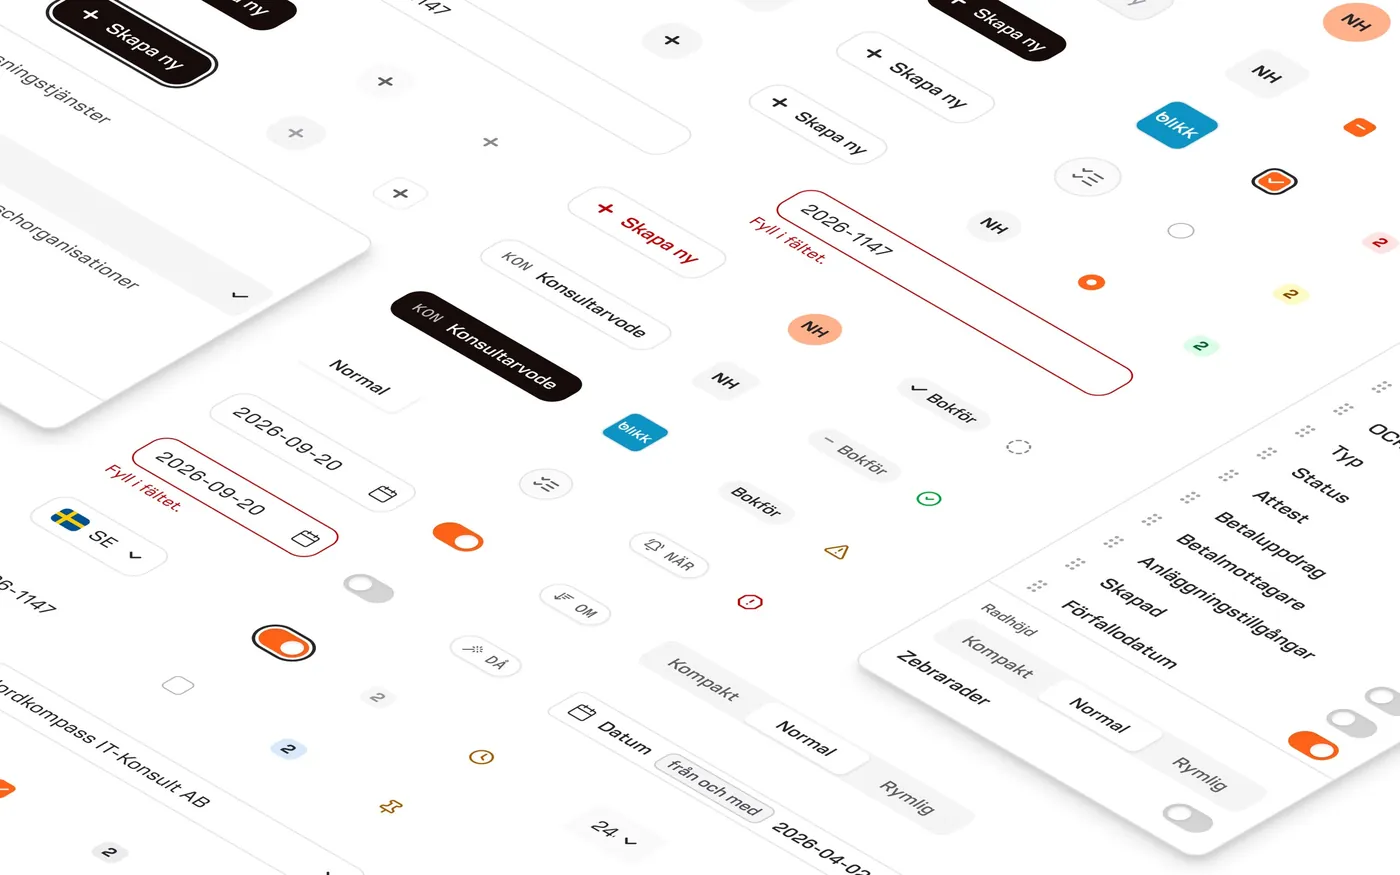
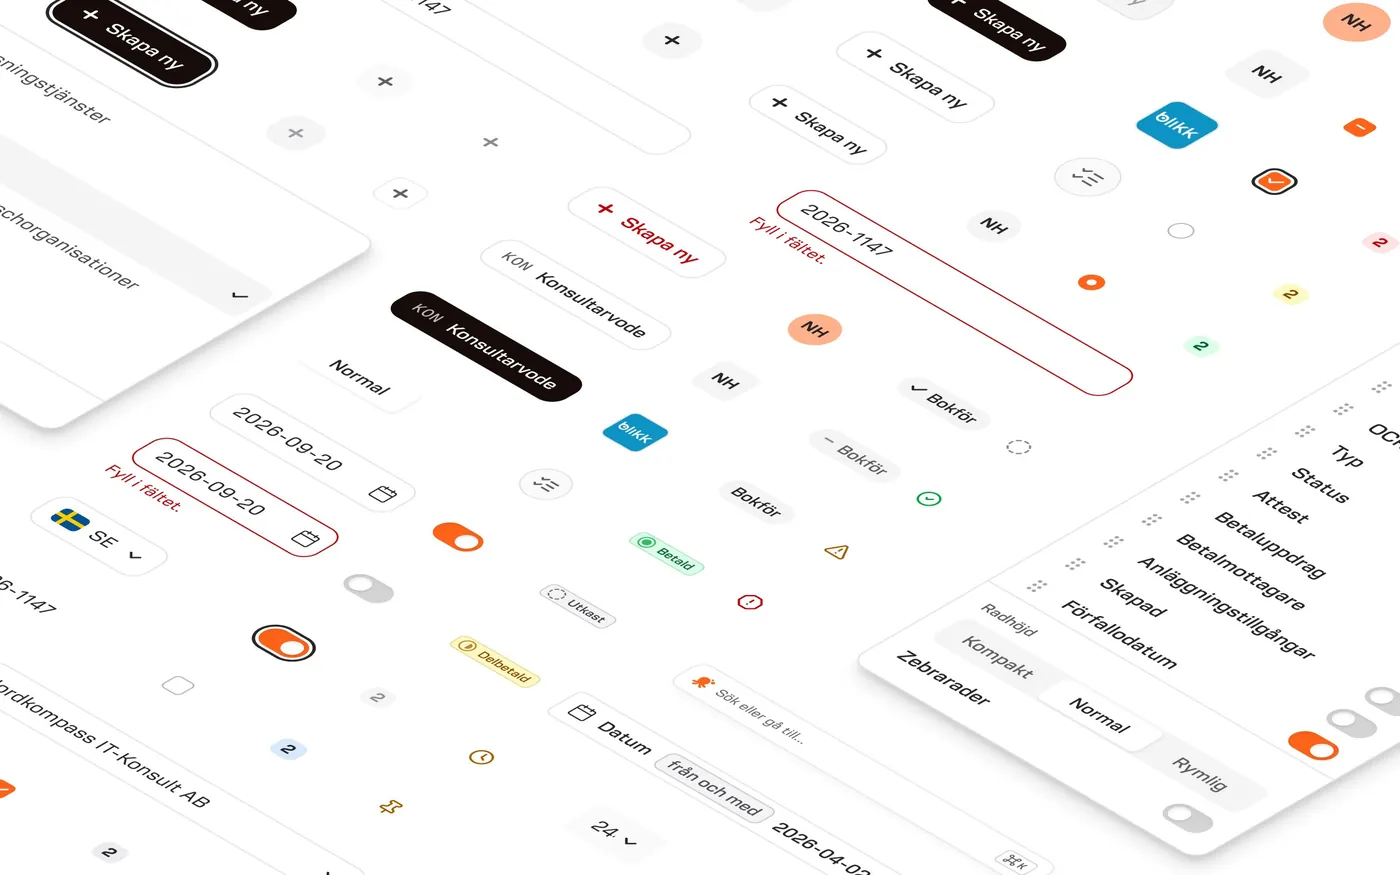
Oqto components image: status tags and the search field replace the when/if/then chips and the segmented control
Claude-Session: https://claude.ai/code/session_01T8AAM769pNUjzneeyTgJVR

diff --git a/docs/oqto/index.html b/docs/oqto/index.html
@@ -101,7 +101,7 @@
 <p class="c-step-text">Buttons, fields, chips, menus and tables, each with its states. The Figma library and its written guidelines are connected to Claude Code, so new features follow the system from the start. Everything works in light and dark mode.</p>
 </div>
 </div>
-<div data-px="-1" data-rv="3" data-lb="1" tabindex="0" role="button" aria-label="Enlarge image" class="rv c-clip"><img class="zm px" src="../assets/oqto-components-1400.webp?v=63c868e3" srcset="../assets/oqto-components-800.webp?v=a930d223 800w, ../assets/oqto-components-1400.webp?v=63c868e3 1400w, ../assets/oqto-components.webp?v=1073ee6a 2400w" sizes="(min-width: 1440px) 1200px, 92vw" data-lbsrc="../assets/oqto-components.webp?v=1073ee6a" loading="lazy" decoding="async" alt="A selection of Oqto components laid out on an isometric plane" width="2400" height="1500"></div>
+<div data-px="-1" data-rv="3" data-lb="1" tabindex="0" role="button" aria-label="Enlarge image" class="rv c-clip"><img class="zm px" src="../assets/oqto-components-1400.webp?v=0739f04d" srcset="../assets/oqto-components-800.webp?v=25db8915 800w, ../assets/oqto-components-1400.webp?v=0739f04d 1400w, ../assets/oqto-components.webp?v=eaa7601d 2400w" sizes="(min-width: 1440px) 1200px, 92vw" data-lbsrc="../assets/oqto-components.webp?v=eaa7601d" loading="lazy" decoding="async" alt="A selection of Oqto components laid out on an isometric plane" width="2400" height="1500"></div>
 <div data-rv="4" data-lb="1" tabindex="0" role="button" aria-label="Enlarge image" class="rv c-clip"><div class="zm ld"><img src="../assets/oqto-dark-g-1400.jpg?v=3f939e47" srcset="../assets/oqto-dark-g-800.jpg?v=39d6bf9e 800w, ../assets/oqto-dark-g-1400.jpg?v=3f939e47 1400w, ../assets/oqto-dark-g.jpg?v=1dbd0e84 2400w" sizes="(min-width: 1440px) 1200px, 92vw" data-lbsrc="../assets/oqto-dark-g.jpg?v=1dbd0e84" loading="lazy" decoding="async" alt="The automations start view and the supplier invoice list in dark mode" width="2400" height="1500"><img class="li" src="../assets/oqto-light-1400.webp?v=5ecb5cf8" srcset="../assets/oqto-light-800.webp?v=518fa672 800w, ../assets/oqto-light-1400.webp?v=5ecb5cf8 1400w, ../assets/oqto-light.webp?v=f5364087 2400w" sizes="(min-width: 1440px) 1200px, 92vw" data-lbsrc="../assets/oqto-light.webp?v=f5364087" loading="lazy" decoding="async" alt="The automations start view and the supplier invoice list in light mode" width="2400" height="1500"></div></div>
 </section>
 
